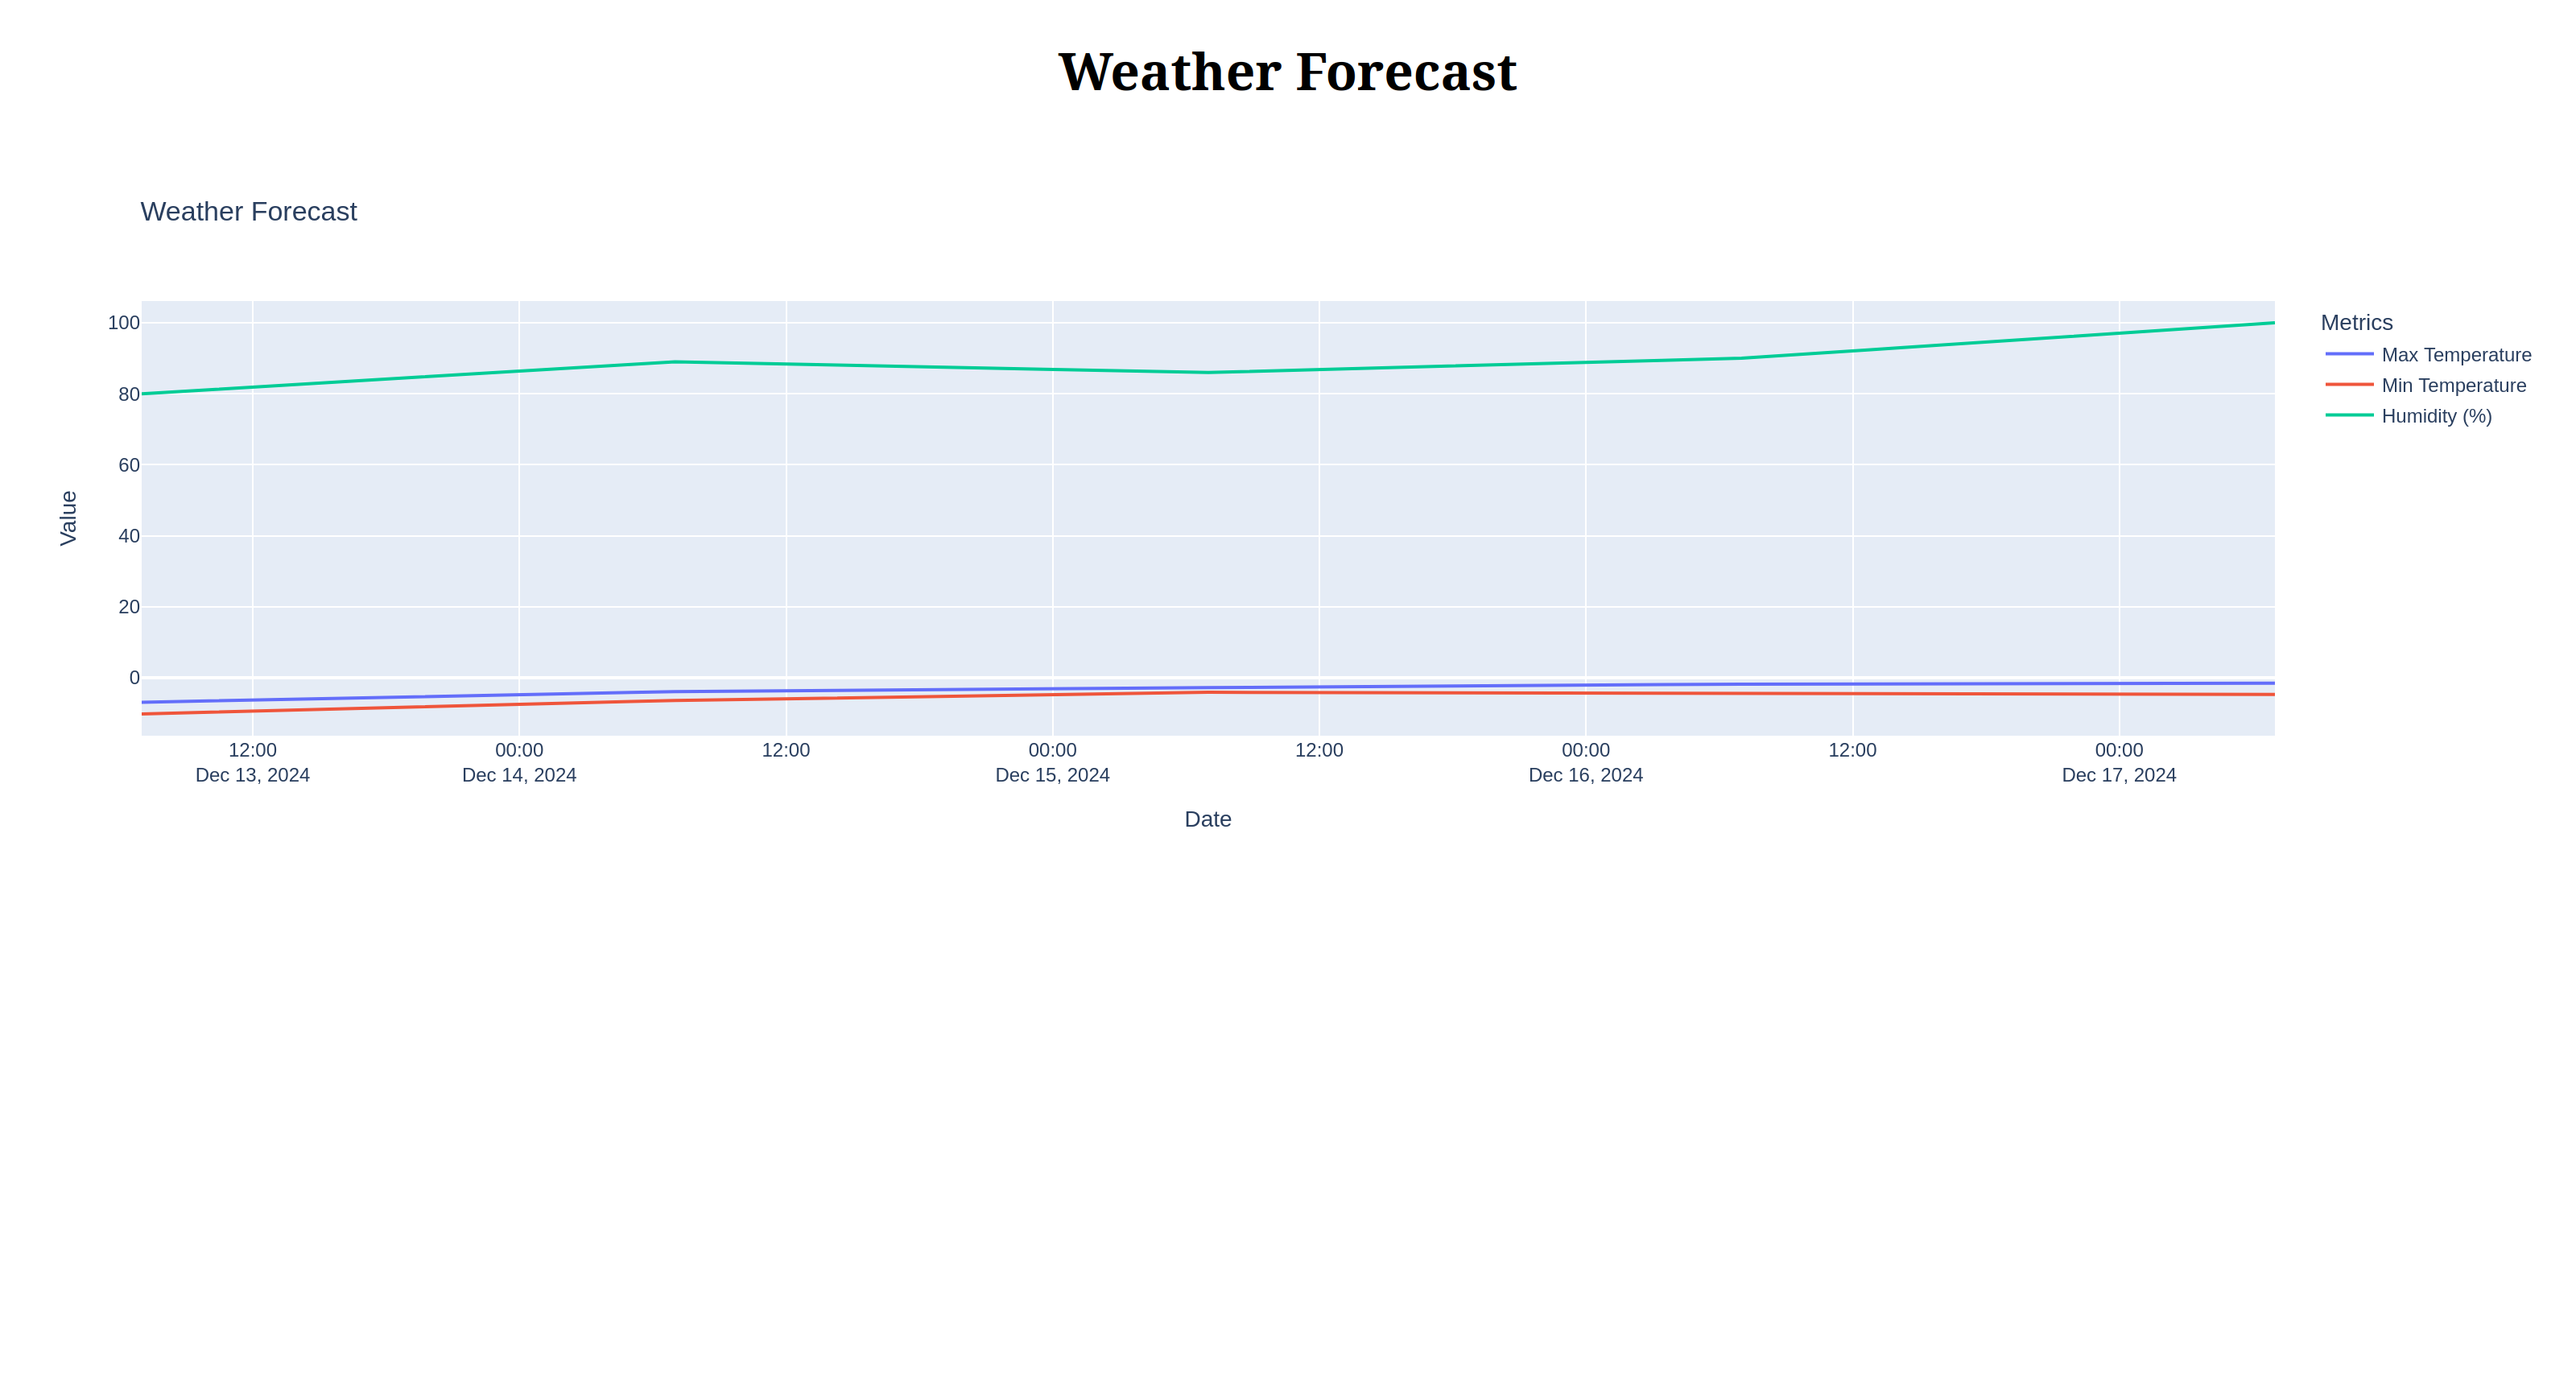
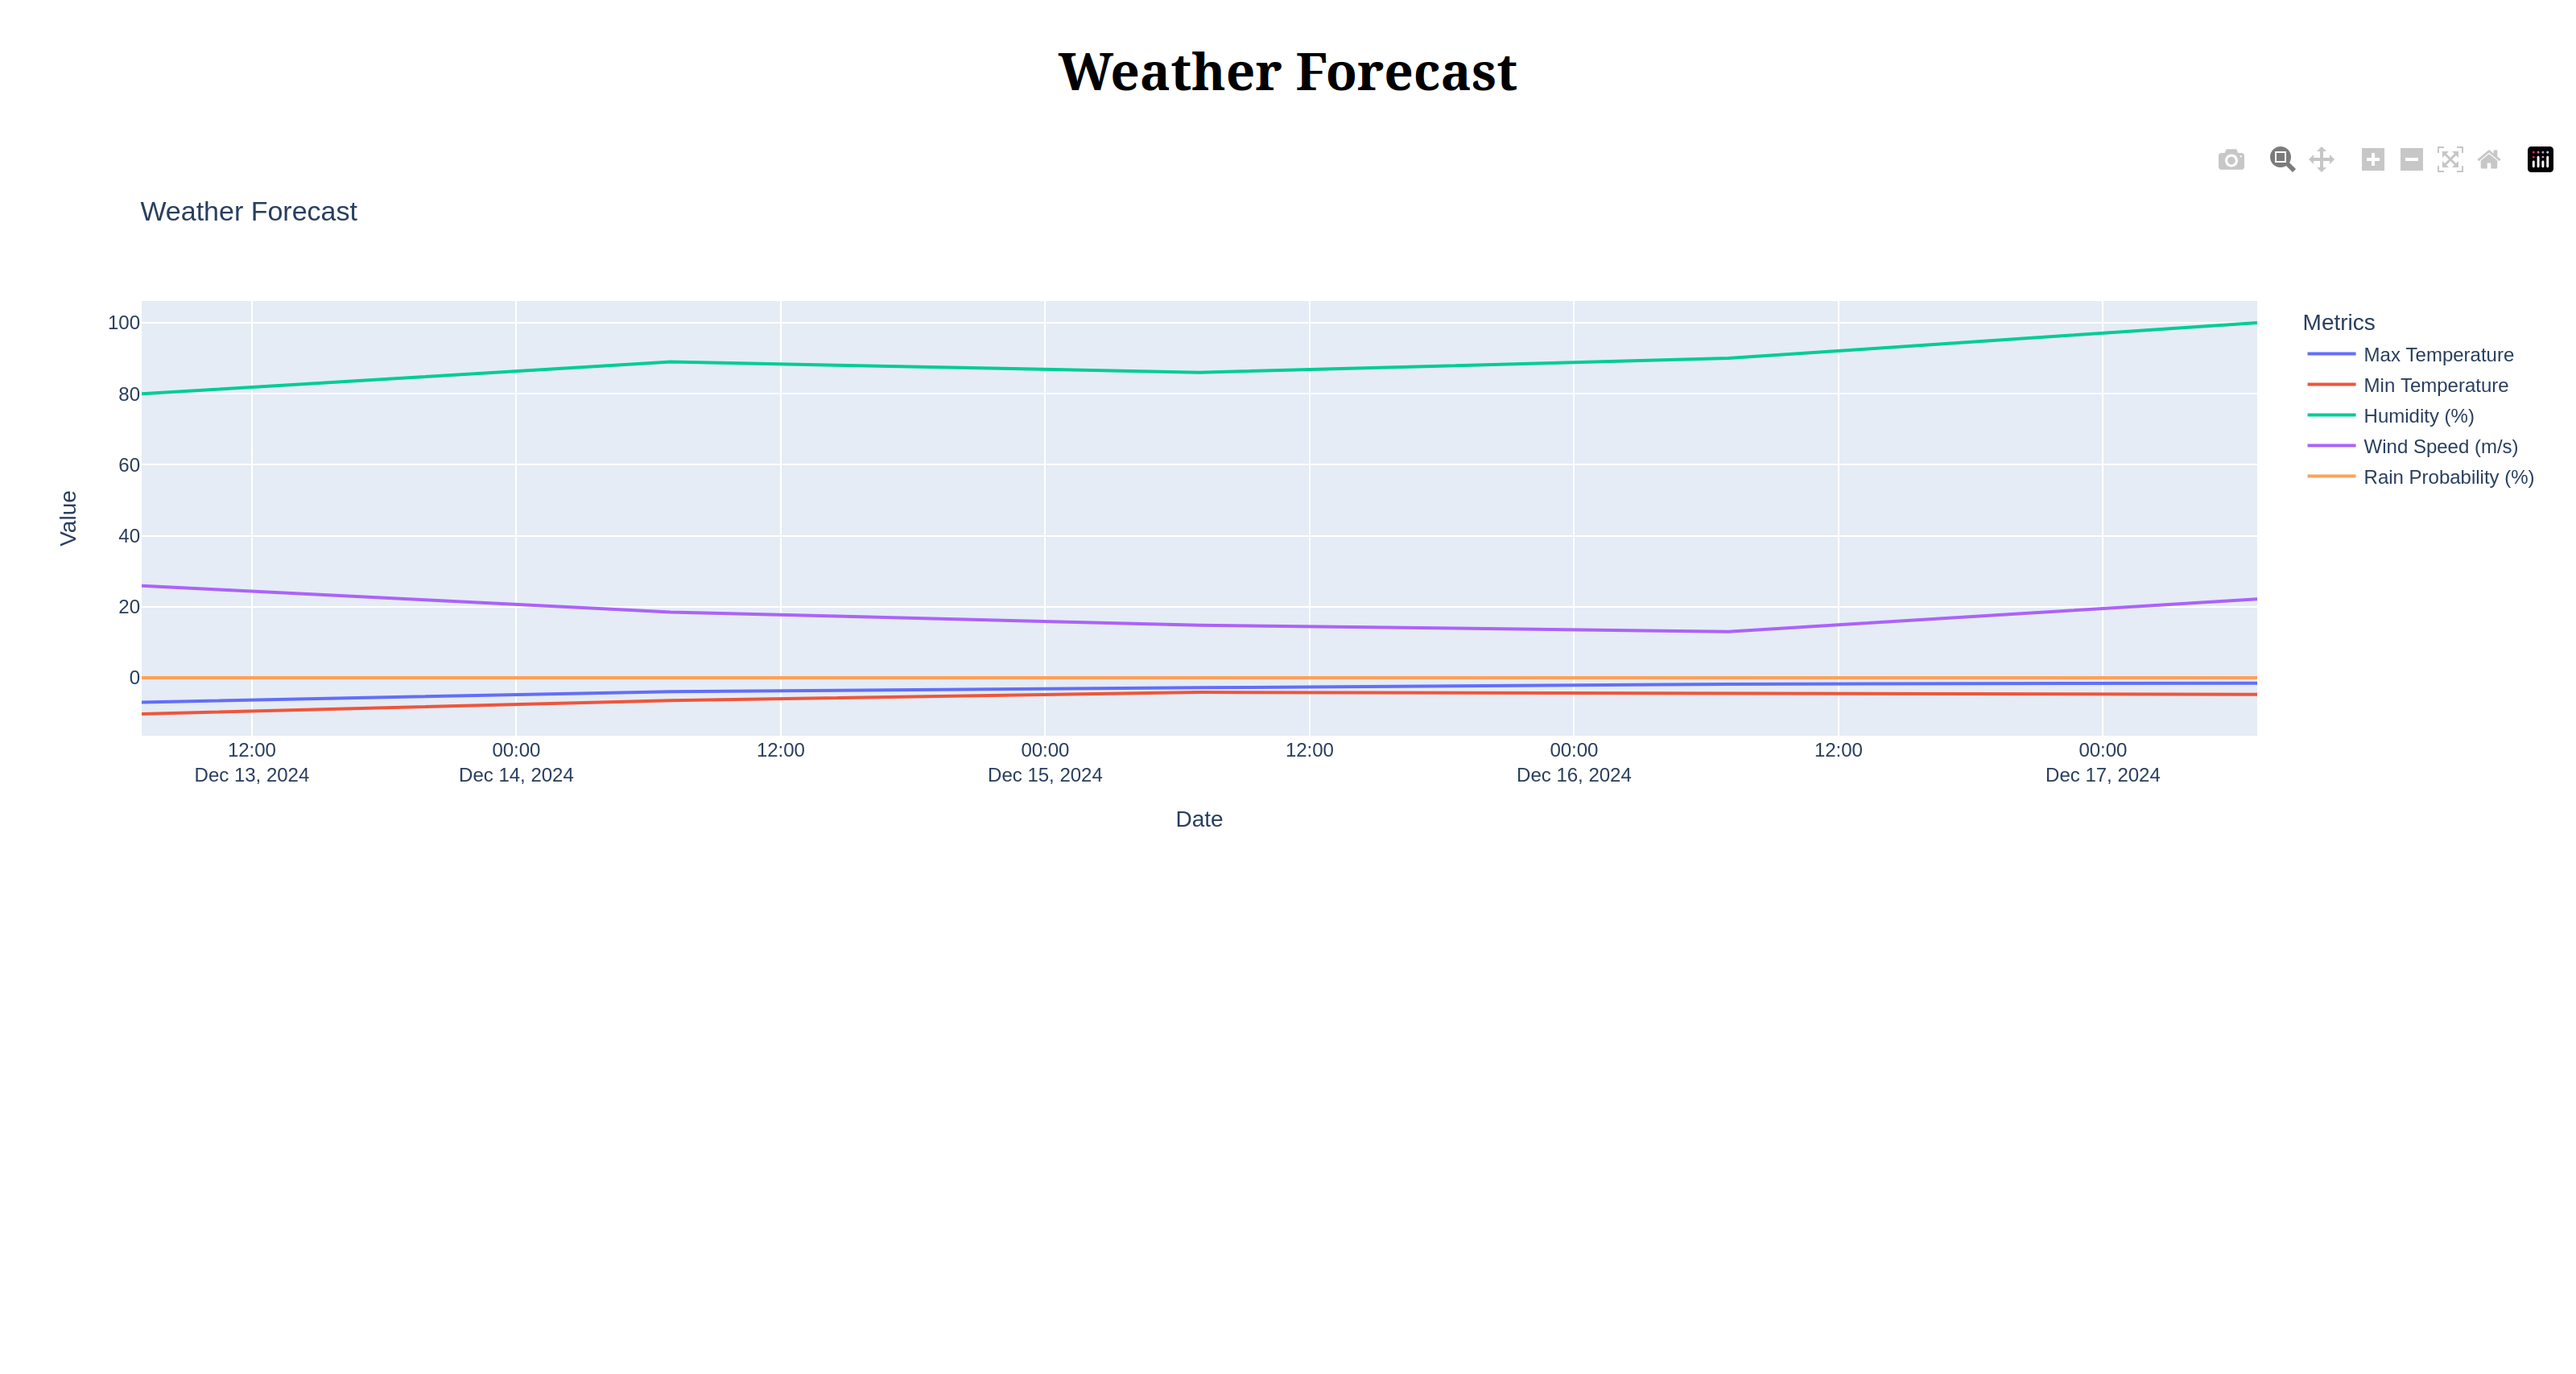
readme

diff --git a/README.md b/README.md
@@ -26,3 +26,6 @@ results page
 description page
 ![alt text](img/description.png)
 
+description choose categories
+![alt text](img/desc2.png)
+
